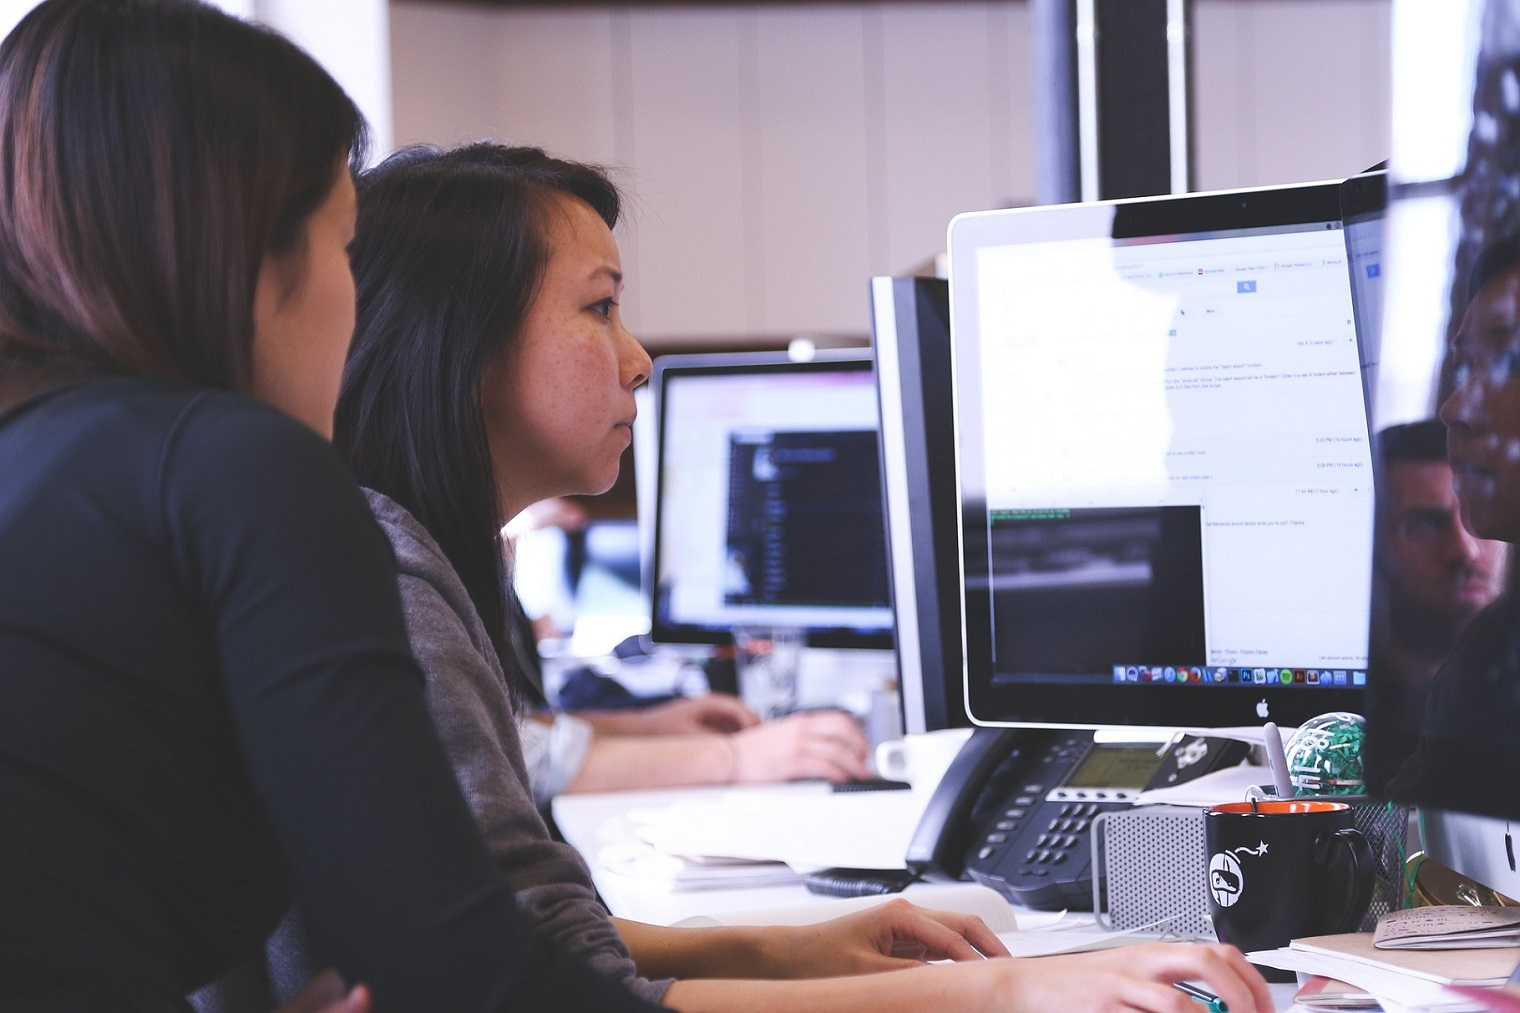
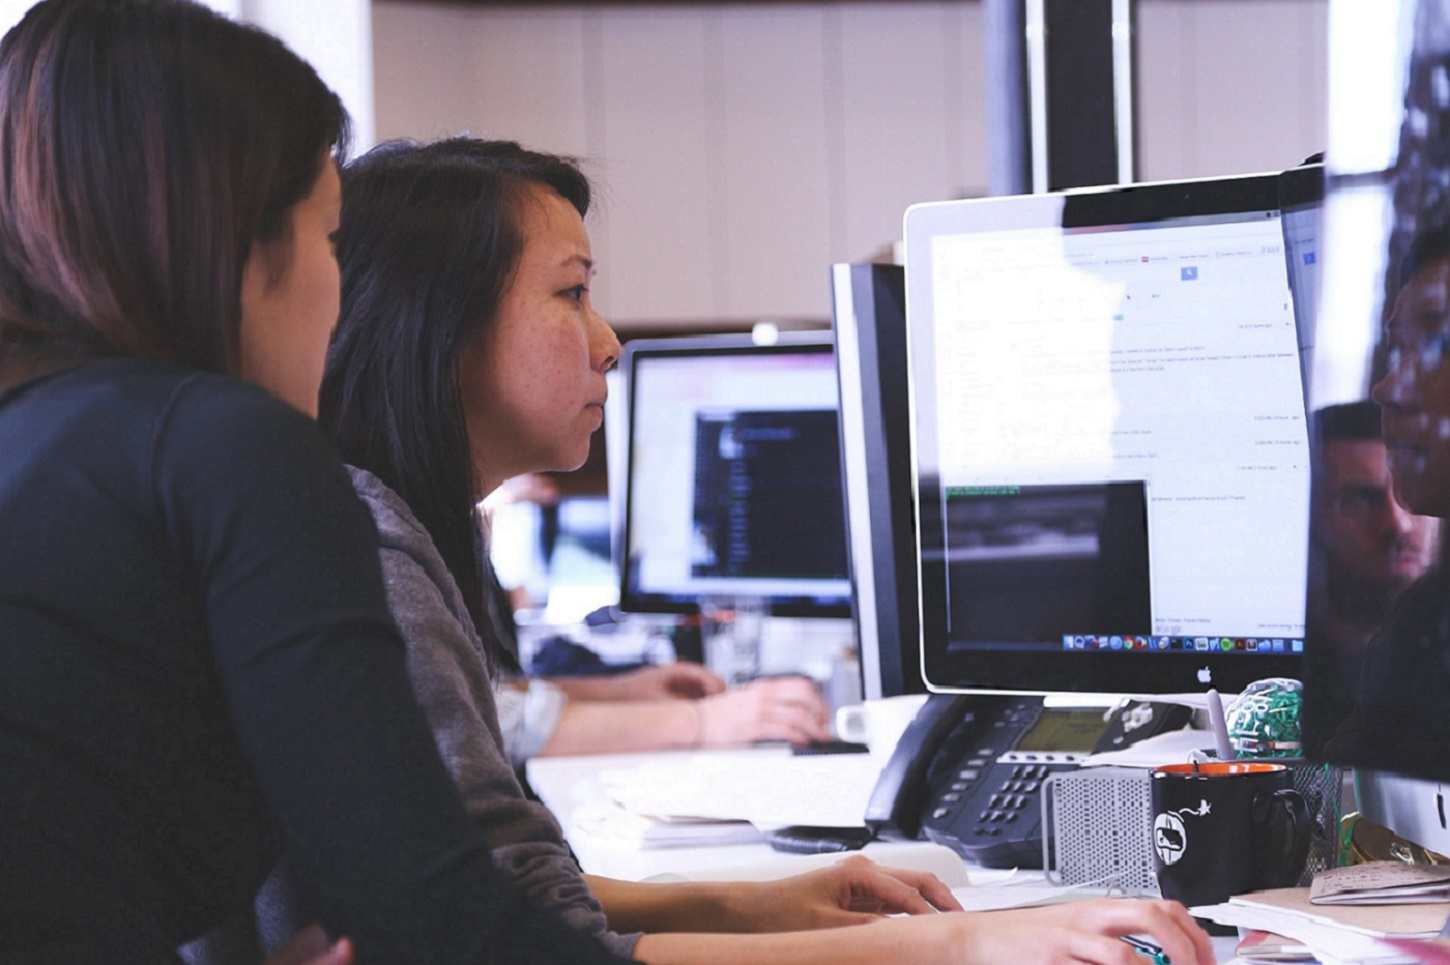
Change picture background

diff --git a/css/styles.css b/css/styles.css
@@ -23,7 +23,7 @@ header {
 .backgrd{
   position: relative;
   background: url(../images/startupMeeting2.jpg);
-  background-size: auto;
+  background-size: cover;
   height: 100vh;
   clip-path: polygon(0 25%, 100% 0, 100% 100%, 0 80%);
 }
